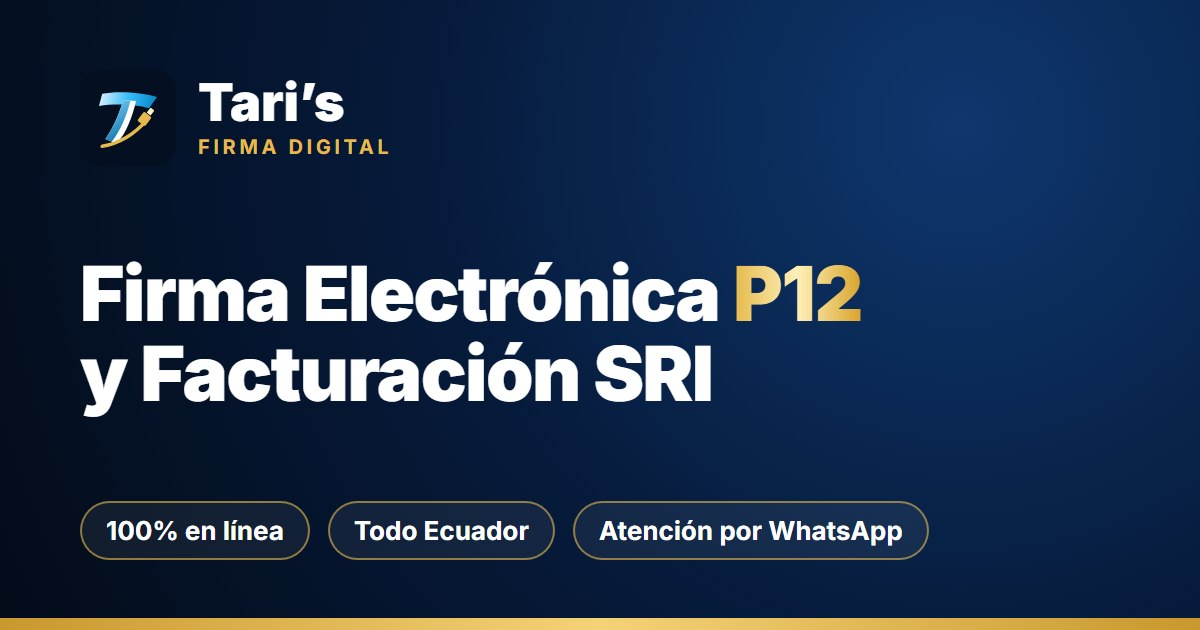
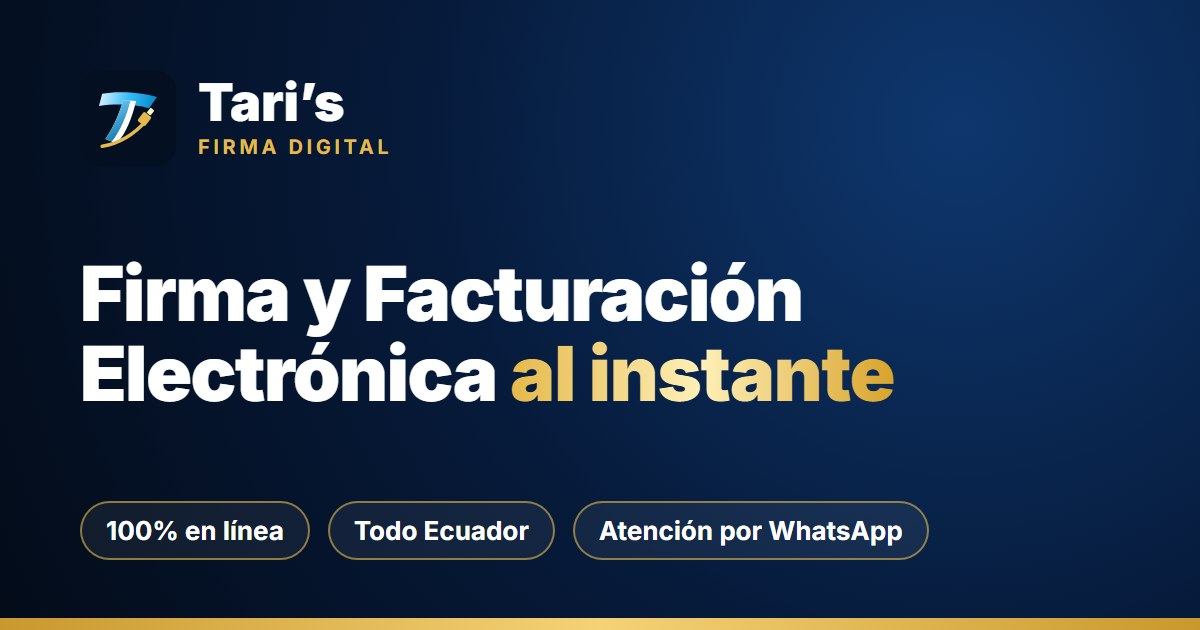
feat: apply owner confirmations and new share image slogan (002)
- El responsable confirmó los puntos 1 a 7: precios de las variantes de
  la promoción, saludo de WhatsApp, preguntas frecuentes, requisitos de
  persona jurídica, tipos de comprobante, aviso de privacidad y términos.
  Se quitan las marcas de BORRADOR (FR-038).
- Imagen para compartir: el eslogan pasa a "Firma y Facturación
  Electrónica al instante"; las etiquetas se mantienen. Se actualiza
  og:image:alt y el contrato page-metadata.

Changed region(s): [[0.0617, 0.4222, 0.7708, 0.6635]]

diff --git a/index.html b/index.html
@@ -18,7 +18,7 @@
     <meta property="og:image" content="https://__DOMINIO__/img/og-tari.jpg">
     <meta property="og:image:width" content="1200">
     <meta property="og:image:height" content="630">
-    <meta property="og:image:alt" content="Logo de Tari's Firma Digital con el texto Firma Electrónica P12 y Facturación SRI">
+    <meta property="og:image:alt" content="Logo de Tari's Firma Digital con el texto Firma y Facturación Electrónica al instante">
     <meta name="twitter:card" content="summary_large_image">
     <meta name="theme-color" content="#061A3A">
     <link rel="icon" href="favicon.svg" type="image/svg+xml">
@@ -428,7 +428,7 @@
                     <div class="grid grid-cols-1 sm:grid-cols-2 lg:grid-cols-3 gap-6" id="comprobantes-cards-container"></div>
 
                     <!-- Qué incluye el plan y requisito de firma (FR-023).
-                         BORRADOR: el responsable debe confirmar los tipos de comprobante incluidos (FR-038). -->
+                         Texto confirmado por el responsable del negocio el 2026-11-26 (FR-038). -->
                     <div class="mt-8 grid md:grid-cols-2 gap-4">
                         <div class="bg-[#081018] border border-white/10 rounded-2xl p-5">
                             <h3 class="font-bold text-white text-base">¿Qué comprobantes puedo emitir?</h3>
@@ -558,7 +558,7 @@
                     </div>
 
                     <!-- Bloque 2: requisitos de la facturación electrónica (FR-002).
-                         BORRADOR: el responsable del negocio debe confirmar los documentos de persona jurídica (FR-038). -->
+                         Texto confirmado por el responsable del negocio el 2026-11-26 (FR-038). -->
                     <h4 class="text-base font-extrabold text-white mt-8 mb-4">Facturación electrónica</h4>
                     <div class="grid sm:grid-cols-2 gap-4">
                         <div class="bg-[#081018] p-4 rounded-2xl border border-white/5">
@@ -643,7 +643,7 @@
     </section>
 
     <!-- SECCIÓN: PREGUNTAS FRECUENTES (FR-004 a FR-007).
-         BORRADOR: el responsable del negocio debe confirmar cada respuesta antes de publicar (FR-038). -->
+         Texto confirmado por el responsable del negocio el 2026-11-26 (FR-038). -->
     <section id="preguntas" class="scroll-mt-28 py-16 px-4 sm:px-6 lg:px-8">
         <div class="max-w-3xl mx-auto">
             <div class="text-center mb-10">

diff --git a/privacidad.html b/privacidad.html
@@ -39,7 +39,7 @@
     </header>
 
     <!-- SECCIÓN: AVISO DE PRIVACIDAD (FR-014, research R11).
-         BORRADOR: el responsable del negocio debe revisar y confirmar este texto antes de publicar (FR-038). -->
+         Texto confirmado por el responsable del negocio el 2026-11-26 (FR-038). -->
     <main class="max-w-3xl mx-auto px-4 sm:px-6 py-12 space-y-8 text-slate-300 leading-relaxed">
         <div>
             <h1 class="text-3xl sm:text-4xl font-black text-white">Aviso de privacidad</h1>

diff --git a/terminos.html b/terminos.html
@@ -39,7 +39,7 @@
     </header>
 
     <!-- SECCIÓN: TÉRMINOS DEL SERVICIO (FR-015).
-         BORRADOR: el responsable del negocio debe revisar y confirmar este texto antes de publicar (FR-038). -->
+         Texto confirmado por el responsable del negocio el 2026-11-26 (FR-038). -->
     <main class="max-w-3xl mx-auto px-4 sm:px-6 py-12 space-y-8 text-slate-300 leading-relaxed">
         <div>
             <h1 class="text-3xl sm:text-4xl font-black text-white">Términos del servicio</h1>

diff --git a/specs/002-page-gap-improvements/contracts/page-metadata.md b/specs/002-page-gap-improvements/contracts/page-metadata.md
@@ -36,8 +36,10 @@ dom-hooks).
 
 ## Imagen para compartir
 
-`img/og-tari.jpg`: JPEG de 1200×630 px y menos de 300 KB. Muestra el logo, "Firma Electrónica P12
-y Facturación SRI" y "Ecuador". No lleva precios, para que no quede desactualizada.
+`img/og-tari.jpg`: JPEG de 1200×630 px y menos de 300 KB. Muestra el logo, el eslogan "Firma y
+Facturación Electrónica al instante" (aprobado por el responsable el 2026-11-26) y las etiquetas
+"100% en línea", "Todo Ecuador" y "Atención por WhatsApp". No lleva precios, para que no quede
+desactualizada.
 
 ## Datos estructurados (generados por `script.js`)
 
